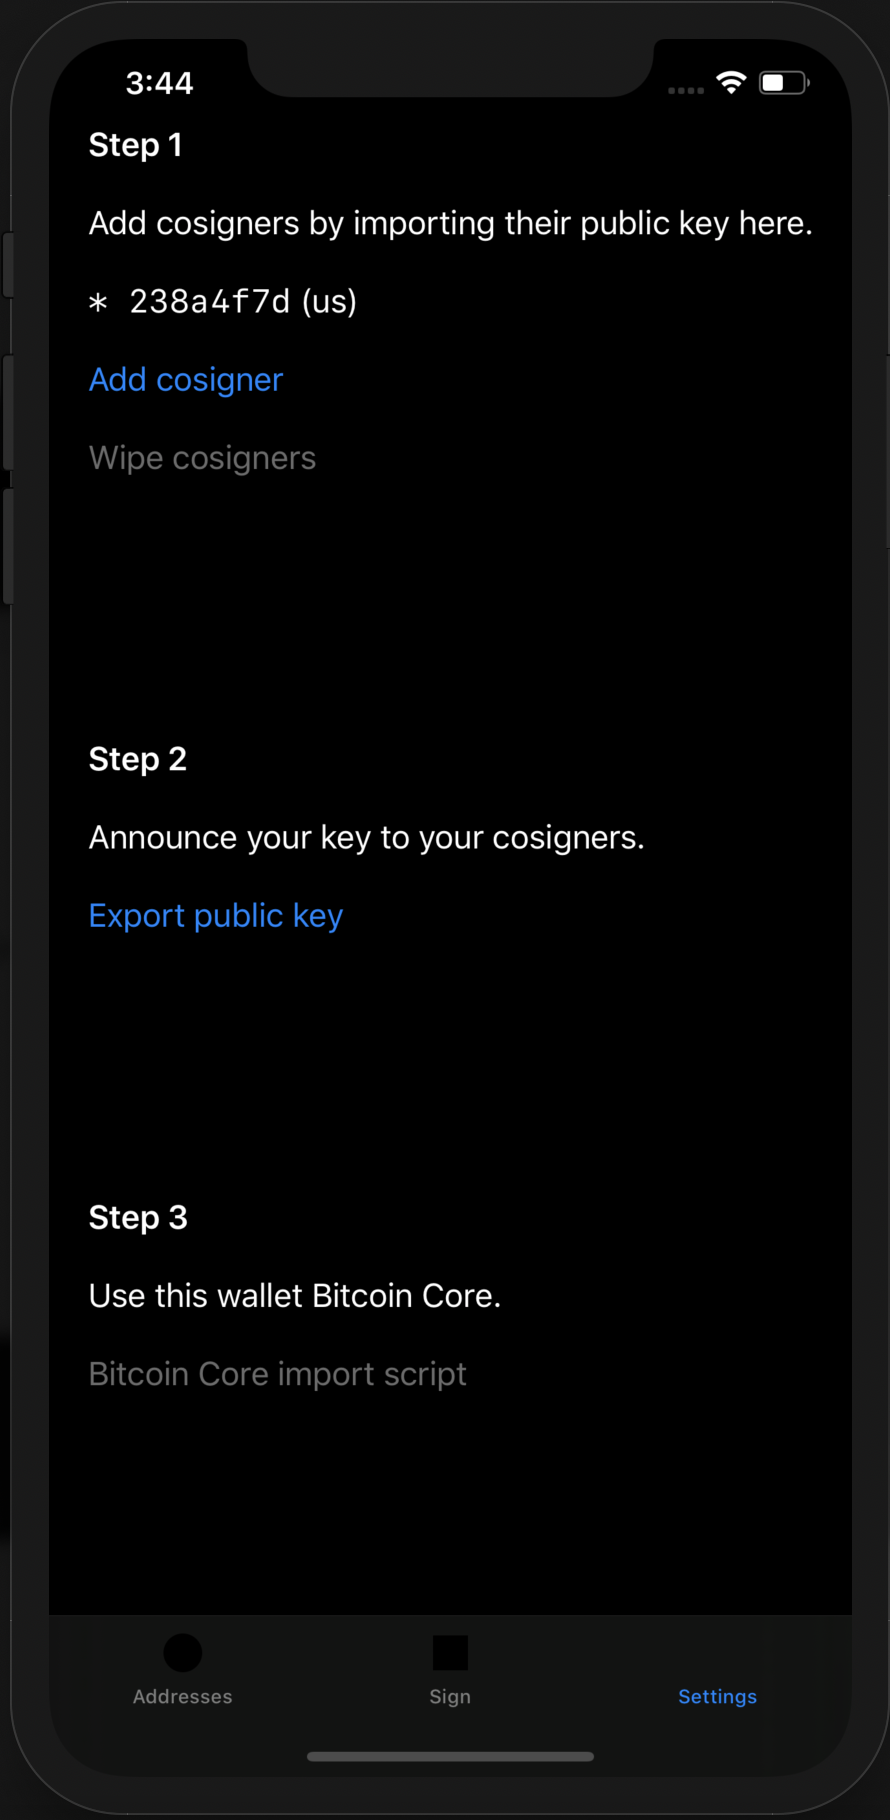
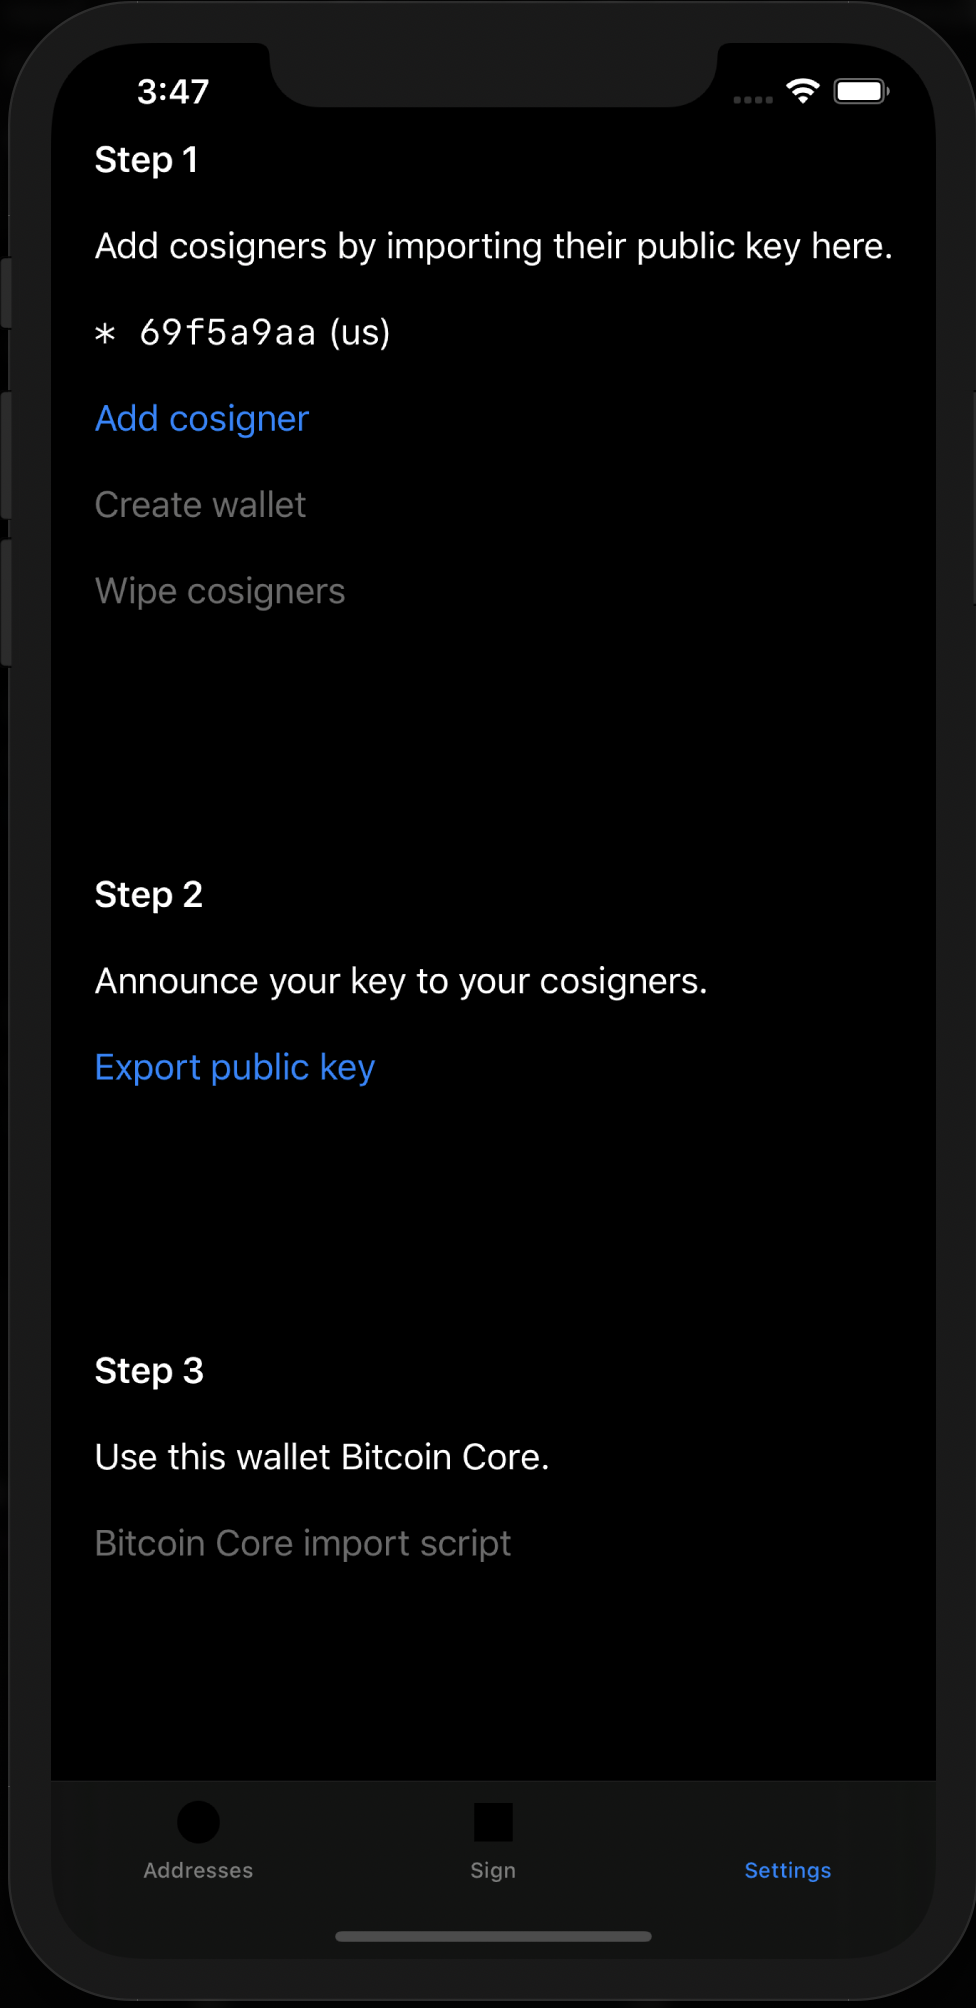
Enable multiple cosigners
Threshold still fixed at 2

diff --git a/NthKey/Model/MultisigAddress.swift b/NthKey/Model/MultisigAddress.swift
@@ -17,35 +17,16 @@ struct MultisigAddress : Identifiable {
     
     init(_ receiveIndex: UInt, network: Network = .testnet) {
         if MultisigAddress.receivePublicHDkeys.isEmpty {
-            let encodedCosigners = UserDefaults.standard.array(forKey: "cosigners")!
-            precondition(!encodedCosigners.isEmpty)
-            
-            let fingerprint = UserDefaults.standard.data(forKey: "masterKeyFingerprint")!
-            let entropyItem = KeychainEntropyItem(service: "NthKeyService", fingerprint: fingerprint, accessGroup: nil)
+            let (us, cosigners) = Signer.getSigners()
 
-            // TODO: handle error
-            let entropy = try! entropyItem.readEntropy()
-            let mnemonic = BIP39Mnemonic(entropy)!
-            let seedHex = mnemonic.seedHex()
-            let masterKey = HDKey(seedHex, network)!
-            assert(masterKey.fingerprint == fingerprint)
-        
-            let encodedCosigner = encodedCosigners[0] as! Data
-            let cosigner = try! NSKeyedUnarchiver.unarchivedObject(ofClass: Signer.self, from: encodedCosigner)!
-            
+            // TODO: use wallet manager
             let threshold = UserDefaults.standard.integer(forKey: "threshold")
             precondition(threshold > 0)
 
-            let cointype: String
-            switch (network) {
-            case .mainnet:
-                cointype = "0h"
-            case .testnet:
-                cointype = "1h"
+            MultisigAddress.receivePublicHDkeys.append(try! us.hdKey.derive(BIP32Path("0")!))
+            for cosigner in cosigners {
+                MultisigAddress.receivePublicHDkeys.append(try! cosigner.hdKey.derive(BIP32Path("0")!))
             }
-            
-            MultisigAddress.receivePublicHDkeys.append(try! masterKey.derive(BIP32Path("m/48h/\(cointype)/0h/2h/0")!))
-            MultisigAddress.receivePublicHDkeys.append(try! cosigner.hdKey.derive(BIP32Path("0")!))
         }
         precondition(!MultisigAddress.receivePublicHDkeys.isEmpty)
         

diff --git a/NthKey/Model/WalletManager.swift b/NthKey/Model/WalletManager.swift
@@ -55,15 +55,23 @@ struct WalletManager {
                 // Always convert marker to tpub:
                 let p2wsh_tpub = Data("043587cf")! + extendedKey.subdata(in: 4..<extendedKey.count)
                 let cosigner = Signer(fingerprint: Data(xfp)!, derivation: BIP32Path(p2wsh_deriv)!, hdKey: HDKey(p2wsh_tpub.base58)!)
-                let encoded = try! NSKeyedArchiver.archivedData(withRootObject: cosigner, requiringSecureCoding: true)
-                let defaults = UserDefaults.standard
-                defaults.set([encoded], forKey: "cosigners")
                 self.cosigners.append(cosigner)
+                self.saveCosigners()
             }
         } catch {
             NSLog("Something went wrong parsing JSON file")
             return
         }
+    }
+    
+    func saveCosigners() {
+        var encodedCosigners: [Data] = []
+        for cosigner in self.cosigners {
+            let encoded = try! NSKeyedArchiver.archivedData(withRootObject: cosigner, requiringSecureCoding: true)
+            encodedCosigners.append(encoded)
+        }
+        let defaults = UserDefaults.standard
+        defaults.set(encodedCosigners, forKey: "cosigners")
     }
     
     mutating func createWallet() {

diff --git a/NthKey/Model/Signer.swift b/NthKey/Model/Signer.swift
@@ -58,10 +58,13 @@ public class Signer: NSObject, NSSecureCoding, Identifiable {
         guard encodedCosigners != nil && encodedCosigners!.count > 0 else {
             return (us, [])
         }
-        let encodedCosigner = encodedCosigners![0] as! Data
-        let cosigner = try! NSKeyedUnarchiver.unarchivedObject(ofClass: Signer.self, from: encodedCosigner)!
+        var cosigners: [Signer] = []
+        for encodedCosigner in encodedCosigners! {
+            let cosigner: Signer = try! NSKeyedUnarchiver.unarchivedObject(ofClass: Signer.self, from: encodedCosigner as! Data)!
+            cosigners.append(cosigner)
+        }
         
-        return (us, [cosigner])
+        return (us, cosigners)
     }
     
     static func signPSBT(_ psbt: PSBT) -> PSBT {

diff --git a/NthKey/View/SettingsView.swift b/NthKey/View/SettingsView.swift
@@ -38,6 +38,12 @@ struct SettingsView : View {
                     }
                     .disabled(self.appState.walletManager.hasWallet)
                     Button(action: {
+                        self.appState.walletManager.createWallet()
+                    }) {
+                        Text("Create wallet")
+                    }
+                    .disabled(self.appState.walletManager.hasWallet || !self.appState.walletManager.hasCosigners)
+                    Button(action: {
                         self.appState.walletManager.wipeCosigners()
                     }) {
                         Text("Wipe cosigners")

diff --git a/NthKey/SettingsViewController.swift b/NthKey/SettingsViewController.swift
@@ -49,8 +49,6 @@ final class SettingsViewController : UIViewController, UIDocumentPickerDelegate 
     
     func addCosigner(_ callback: @escaping (URL) -> Void) {
         precondition(activeFileViewControllerManager == nil)
-        // Prompt user to open JSON file if no wallet exists yet
-        precondition(UserDefaults.standard.array(forKey: "cosigners") == nil)
         
         self.callbackDidGetURL = callback
         activeFileViewControllerManager = FileViewControllerManager(task: .loadCosigner)

diff --git a/docs/tutorial.md b/docs/tutorial.md
@@ -91,6 +91,8 @@ I haven't tested importing the above, but it's a good sanity check.
 
 Now that ColdCard is aware of both keys, we need export the key from Coldcard and import that into iOs, so that it too becomes aware of both keys. On the Coldcard, go to "Setttings" -> "Multisig"  -> "Export XPUB". This will create a file  `ccxp-00000002.json`. In the iOs app go to Settings -> "Add cosigner". Select the newly created file.
 
+Unless you want to add more cosigners, click on Create Wallet.
+
 ## Bitcoin Core
 
 To import into Bitcoin Core, in the app go to Settings ->  "Export to Bitcoin Core". Save the text file to iCloud drive so you can open it on your Mac or download it from icloud.com. This file does not contain private keys, but it is privacy sensitive. At least delete it when you're done.
